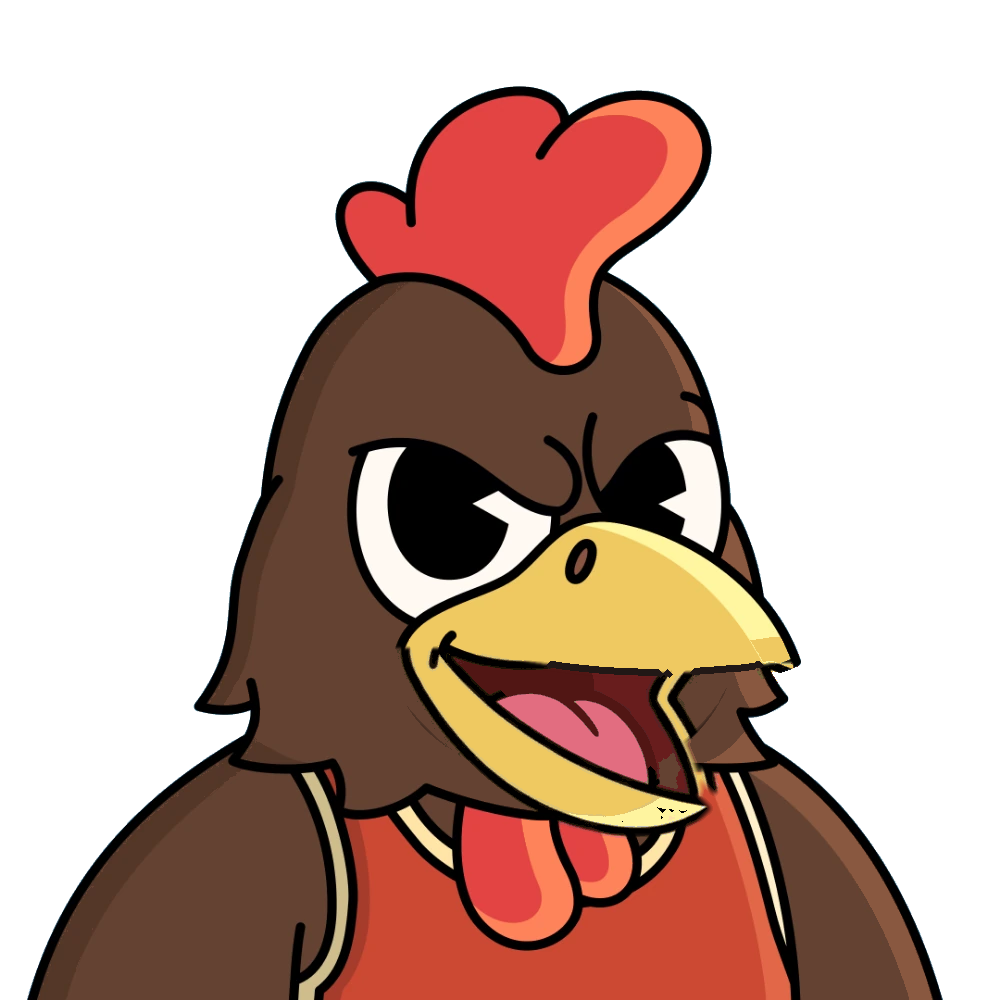
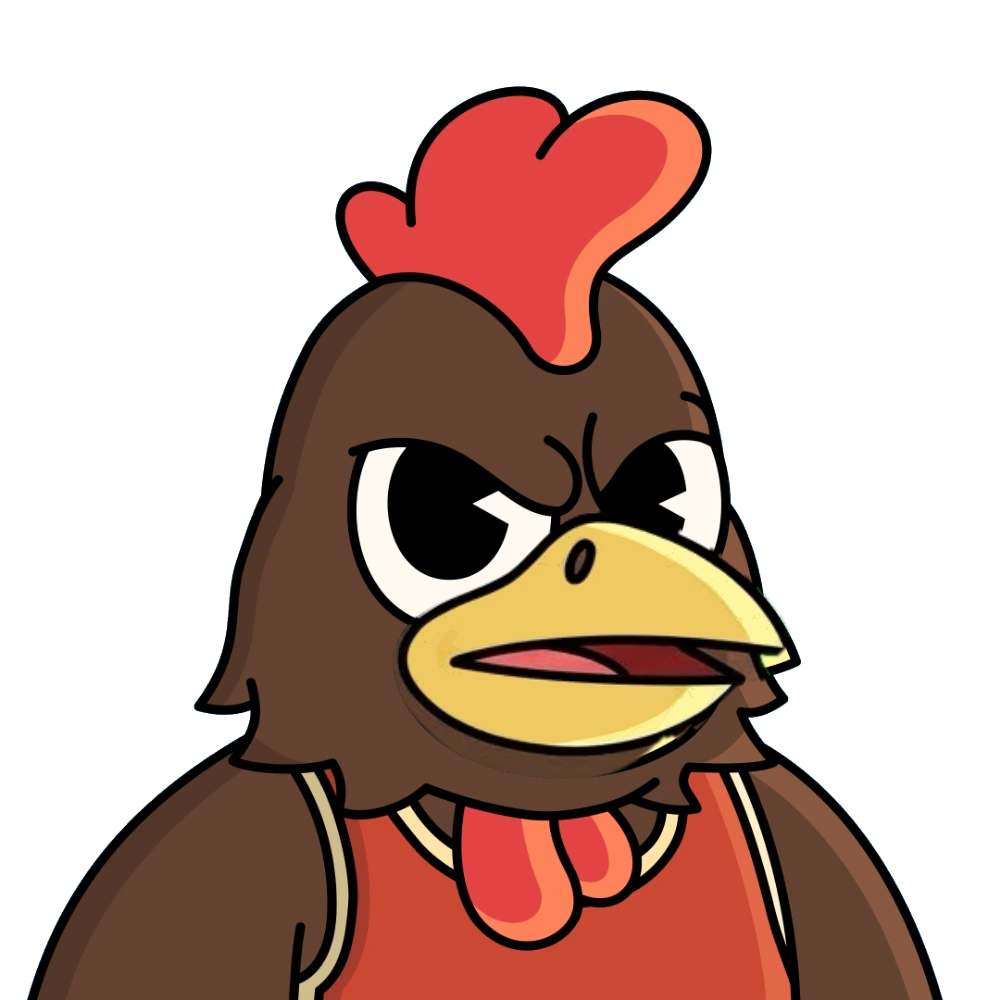
Cock kit: the whole talking set redrawn from GEAUX's sheets (shut, small open, AH, EE, OO, F/V, frown; O and L refitted), every beak lined up by its upper beak so the beak keeps one shape (tools/kit_from_panels.py BEAK/UPPER); dark geckos' chin no longer turns teal (the chin colour from the Nibble's
Claude-Session: https://claude.ai/code/session_01AAjfD4JXrwKrGtAMJHTTVa

Changed region(s): [[0.372, 0.527, 0.806, 0.837], [0.527, 0.527, 0.589, 0.589], [0.496, 0.558, 0.527, 0.589]]

diff --git a/beta/kit.js b/beta/kit.js
@@ -143,10 +143,16 @@ export function fromKit(Timg, ref, { blink = true, dbg = null, wideFace = false,
   if (donor) { const Dn = data(donor), zone = grow(Zd, 320), dm = new Uint8Array(N * N);
     let ztop = N; for (let p = 0; p < N * N; p++) if (Z[p]) { ztop = (p / N) | 0; break; }
     // (a gum bubble swells up over the snout, well above the mouth: all of it goes, GEAUX 21 Nov. The eyes stay this Nibble's own)
-    for (let p = 0; p < N * N; p++) if (((p / N) | 0) < ztop - (gum ? 260 : 10)) zone[p] = 0;   // (the eyes, a hat: this Nibble's own, never the donor's)
+    // (a tongue sticking up past the mouth's top (a gecko's tongue curled over its lip) is the mouth too: it was cut flat
+    //  along that line, its top left over every talking mouth (the nibble check, 24 Nov))
+    const zNear = grow(Zd, 40);   // (a tongue is next to the mouth; a red cap isn't)
+    for (let p = 0; p < N * N; p++) { const y = (p / N) | 0; if (y >= ztop - (gum ? 260 : 10)) continue; const i = p * 4;
+      if (zNear[p] && T[i] > 190 && T[i + 1] < 150 && T[i] - T[i + 1] > 70 && dist(T, i, Dn, i) > 50) continue; zone[p] = 0; }   // (the eyes, a hat: this Nibble's own, never the donor's)
     // (with a gum bubble, only where the blink actually changes the picture: the beaver's blink layer reaches down over its whole snout)
     if (ref.eyes) for (const e of [ref.eyes[3], ref.eyes[4]]) if (e) { const E = data(e), ez = new Uint8Array(N * N); for (let p = 0; p < N * N; p++) if (E[p * 4 + 3] > 20 && (!gum || dist(E, p * 4, R, p * 4) > 40)) ez[p] = 1;
-      const eg = grow(ez, 24); for (let p = 0; p < N * N; p++) if (eg[p]) zone[p] = 0; }
+      const tg = new Uint8Array(N * N); for (let p = 0; p < N * N; p++) { const i = p * 4; if (!ez[p] && zNear[p] && T[i] > 190 && T[i + 1] < 150 && T[i] - T[i + 1] > 70 && dist(T, i, Dn, i) > 50) tg[p] = 1; }
+      const tgG = grow(tg, 9);   // (a tongue next to the eyes, with its outline, is still the tongue)
+      const eg = grow(ez, 24); for (let p = 0; p < N * N; p++) if (eg[p] && !(tgG[p] && !ez[p])) zone[p] = 0; }
     for (let p = 0; p < N * N; p++) { if (!zone[p]) continue; const i = p * 4; if (Math.abs(T[i + 3] - Dn[i + 3]) > 60 || dist(T, i, Dn, i) > 50) dm[p] = 1; }
     // only the pieces that reach into the mouth area (the mouth itself, its drool or tongue); not eyes or anything else
     const lab = new Int32Array(N * N), q = new Int32Array(N * N), use = new Uint8Array(N * N); let id = 0;
@@ -154,7 +160,10 @@ export function fromKit(Timg, ref, { blink = true, dbg = null, wideFace = false,
       while (h < t) { const p = q[h++], x = p % N; if (Zd[p]) inZ++; for (const j of [x > 0 ? p - 1 : -1, x < N - 1 ? p + 1 : -1, p - N, p + N]) if (j >= 0 && j < N * N && dm[j] && !lab[j]) { lab[j] = id; q[t++] = j; } }
       // (mostly in the mouth area: a hood, a scarf or a cape that the donor doesn't wear is this Nibble's own, never swapped)
       if (inZ >= 20) {
-        if (inZ >= t * (gum ? 0.08 : 0.3)) for (let k = 0; k < t; k++) use[q[k]] = 1; } }
+        // (a tongue curled out over the lip is mostly outside the mouth area, but it's the mouth: it stayed over every talking
+        //  mouth, cut flat along the area's edge (the nibble check, 24 Nov))
+        let pk = 0; for (let k = 0; k < t; k++) { const i = q[k] * 4; if (zNear[q[k]] && T[i] > 190 && T[i + 1] < 150 && T[i] - T[i + 1] > 70) pk++; }   // (next to the mouth: a red cap isn't a tongue)
+        if (inZ >= t * (gum ? 0.08 : 0.3) || pk >= t * 0.4) for (let k = 0; k < t; k++) use[q[k]] = 1; } }
     // the gum bubble itself, whole: its pink (and the outline and shine inside it), joined to the mouth area
     let gm = null;
     if (gum) { const pink = new Uint8Array(N * N); for (let p = 0; p < N * N; p++) { const i = p * 4; if (T[i + 3] > 200 && T[i] > 170 && T[i] - T[i + 1] > 50 && T[i + 2] > T[i + 1] + 20) pink[p] = 1; }
@@ -163,9 +172,10 @@ export function fromKit(Timg, ref, { blink = true, dbg = null, wideFace = false,
         while (h < t) { const p = q2[h++], x = p % N; if (Zd[p]) inZ++; for (const j of [x > 0 ? p - 1 : -1, x < N - 1 ? p + 1 : -1, p - N, p + N]) if (j >= 0 && j < N * N && pink[j] && !lb[j]) { lb[j] = n2; q2[t++] = j; } }
         if (inZ >= 20 && t >= 400) for (let k = 0; k < t; k++) keep[q2[k]] = 1; }
       gm = grow(fillHoles(grow(keep, 4)), 6); }
+    // (a twin in other clothes (donor.loose): inside the mouth area only)
     const g = grow(fillHoles(use), 3); donor.box = [N, N, 0, 0];
     if (gm) for (let p = 0; p < N * N; p++) if (gm[p]) { g[p] = 1; zone[p] = 1; }
-    for (let p = 0; p < N * N; p++) if (g[p] && zone[p]) { const i = p * 4, x = p % N, y = (p / N) | 0; const b = donor.box; if (x < b[0]) b[0] = x; if (y < b[1]) b[1] = y; if (x > b[2]) b[2] = x; if (y > b[3]) b[3] = y; T[i] = Dn[i]; T[i + 1] = Dn[i + 1]; T[i + 2] = Dn[i + 2]; T[i + 3] = Dn[i + 3]; } }
+    for (let p = 0; p < N * N; p++) if (g[p] && zone[p] && (!donor.loose || Zd[p] || (gm && gm[p]))) { const i = p * 4, x = p % N, y = (p / N) | 0; const b = donor.box; if (x < b[0]) b[0] = x; if (y < b[1]) b[1] = y; if (x > b[2]) b[2] = x; if (y > b[3]) b[3] = y; T[i] = Dn[i]; T[i + 1] = Dn[i + 1]; T[i + 2] = Dn[i + 2]; T[i + 3] = Dn[i + 3]; } }
   for (let p = 0; p < N * N; p++) if (Zd[p]) ring[p] = 0;
   // and around the eyes (the blink layers): the fur there can differ from the snout's
   const EZ = new Uint8Array(N * N); let eyeRing = null;
@@ -364,6 +374,13 @@ export function fromKit(Timg, ref, { blink = true, dbg = null, wideFace = false,
     if (dbg) { dbg.chinCands = []; for (let k = 0; k < 32768; k++) if (cnt[k] > 60) dbg.chinCands.push([((k >> 10) << 3) + 4, (((k >> 5) & 31) << 3) + 4, ((k & 31) << 3) + 4, cnt[k], Math.round(rowS[k] / cnt[k] - zy)]); dbg.chinCands.sort((a, b) => b[3] - a[3]); dbg.zy = zy; }
     if (bn > 40) { let r = 0, g = 0, b = 0, n = 0; for (let p = 0; p < N * N; p++) { if (!below[p] || ((p / N) | 0) < zy) continue; const i = p * 4; if (T[i + 3] > 200 && bin(T[i], T[i + 1], T[i + 2]) === bk) { r += T[i]; g += T[i + 1]; b += T[i + 2]; n++; } } chinT = [r / n, g / n, b / n]; chinLearned = true; }
     { let jk = -1, jn = 0; for (let k = 0; k < 32768; k++) if (jawC[k] > jn) { jn = jawC[k]; jk = k; } if (jk >= 0) { lumJaw = ((jk >> 10) << 3) + (((jk >> 5) & 31) << 3) + ((jk & 31) << 3) + 12;
+      if (!chinT) { // (nothing of the reference's jaw palette to learn from: this Nibble's own light colour just under its
+        //  mouth, before the learned match of the reference's jaw colour, which on a dark gecko came out dark teal (24 Nov))
+        const c2 = new Map(); for (let p = 0; p < N * N; p++) { const y = (p / N) | 0; if (!Zd[p] || y <= zy || y > zy + 120) continue; const i = p * 4;
+          if (T[i + 3] < 200 || lum(T, i) < 300 || (T[i] > T[i + 1] * 1.3 && T[i] > T[i + 2] * 1.2) || isDrip(T[i], T[i + 1], T[i + 2]) || st0[p]) continue; const k = bin(T[i], T[i + 1], T[i + 2]); c2.set(k, (c2.get(k) || 0) + 1); }   // (a cream chin reads as 'teeth white': only reds and pinks are left out)
+        let top = 0; for (const v of c2.values()) top = Math.max(top, v); let bk2 = -1, bl2 = -1;
+        for (const [k, v] of c2) if (v > 200 && v >= top * 0.3) { const L = (k >> 10) + ((k >> 5) & 31) + (k & 31); if (L > bl2) { bl2 = L; bk2 = k; } }
+        if (bk2 >= 0) { let r = 0, g = 0, b = 0, n = 0; for (let p = 0; p < N * N; p++) { const y = (p / N) | 0; if (!Zd[p] || y <= zy || y > zy + 120) continue; const i = p * 4; if (T[i + 3] > 200 && bin(T[i], T[i + 1], T[i + 2]) === bk2) { r += T[i]; g += T[i + 1]; b += T[i + 2]; n++; } } chinT = [r / n, g / n, b / n]; } }
       if (!chinT) chinT = map(((jk >> 10) << 3) + 4, (((jk >> 5) & 31) << 3) + 4, ((jk & 31) << 3) + 4); } } }   // too little chin showing: the learned match of the reference's jaw colour
   if (chinLearned) chinOwn = { c:chinT, P:jawP, lum:lumJaw };
   if (dbg) Object.assign(dbg, { chinT, lumJaw, jawN:jawC.reduce((a, v) => a + (v ? 1 : 0), 0) });
@@ -403,8 +420,9 @@ export function fromKit(Timg, ref, { blink = true, dbg = null, wideFace = false,
       if (!isMouthC(D[i], D[i + 1], D[i + 2]) && lum(D, i) >= 200) other[p] = 1; }   // the mouth is dark, red, pink or white teeth; clothes are anything else
     const wide = grow(shrink(other, 4), 4), subst0 = new Map();
     for (let p = 0; p < N * N; p++) if (other[p] && wide[p] && R[p * 4 + 3] > 200 && isSkin(R, p * 4)) { const i = p * 4;
+      if (dist(D, i, R, i) <= 30 && Math.abs(D[i + 3] - R[i + 3]) <= 60 && T[i + 3] > 200) continue;   // (unchanged by this mouth: this Nibble's own, never a guessed chin colour (a dark gecko's cream jaw came out dark teal, 24 Nov))
       // the reference's clothes showing: filled from this Nibble's own; any other colour (a lighter lip Gemini drew) is its chin
-      if (chinT && !inPal(clothP, D[i], D[i + 1], D[i + 2]) && !map(D[i], D[i + 1], D[i + 2])) { const sc = Math.min(1.1, lum(D, i) / lumJaw); subst0.set(p, chinT.map(v => Math.max(0, Math.min(255, Math.round(v * sc))))); }
+      if (chinT && !inPal(clothP, D[i], D[i + 1], D[i + 2]) && !map(D[i], D[i + 1], D[i + 2])) { const sc = Math.min(1.0, lum(D, i) / lumJaw); subst0.set(p, chinT.map(v => Math.max(0, Math.min(255, Math.round(v * sc))))); }
       else hole[p] = 1; }
     // where this Nibble shows its own clothes (or their outlines) in its own picture, they're simply there: kept, not
     // guessed from around (the guess left scraps of shirt and skin under the chin, GEAUX's sitcom wolves)
@@ -444,14 +462,14 @@ export function fromKit(Timg, ref, { blink = true, dbg = null, wideFace = false,
       // skin: drawn in this Nibble's matching colour; a skin colour with no match here (a chin its hoodie hides) is filled from its own picture
       if (mouthy || isSkin(D, i)) { if (mouthy) continue; const mm = lum(D, i) >= 75 ? map(D[i], D[i + 1], D[i + 2]) : 1, m = mapped(D, i);
         const onJaw = onJawR(i);
-        if (chinT && (!mm || (onJaw && !inPal(faceP, m[0], m[1], m[2])))) { const sc = Math.min(1.1, lum(D, i) / lumJaw); subst.set(p, chinT.map(v => Math.max(0, Math.min(255, Math.round(v * sc))))); continue; }
+        if (chinT && (!mm || (onJaw && !inPal(faceP, m[0], m[1], m[2])))) { const sc = Math.min(1.0, lum(D, i) / lumJaw); subst.set(p, chinT.map(v => Math.max(0, Math.min(255, Math.round(v * sc))))); continue; }
         if (!mm || !inPal(ownP, m[0], m[1], m[2])) foreign[p] = 1; continue; }
       if (sameDR(i)) continue;
       // another colour of the reference's body (a lighter lip) that this Nibble has no match for: its own chin colour
-      if (chinT && inPal(refP, D[i], D[i + 1], D[i + 2]) && !inPal(clothP, D[i], D[i + 1], D[i + 2]) && !map(D[i], D[i + 1], D[i + 2])) { const sc = Math.min(1.1, lum(D, i) / lumJaw); subst.set(p, chinT.map(v => Math.max(0, Math.min(255, Math.round(v * sc))))); continue; }
+      if (chinT && inPal(refP, D[i], D[i + 1], D[i + 2]) && !inPal(clothP, D[i], D[i + 1], D[i + 2]) && !map(D[i], D[i + 1], D[i + 2])) { const sc = Math.min(1.0, lum(D, i) / lumJaw); subst.set(p, chinT.map(v => Math.max(0, Math.min(255, Math.round(v * sc))))); continue; }
       if (R[i + 3] < 60 && T[i + 3] < 200) continue;   // the mouth drawn past both outlines (a pucker's chin): drawn, not left see-through
       if (!(R[i + 3] > 200 && isSkin(R, i))) { keepT[p] = 1; continue; }
-      if (chinT && !inPal(clothP, D[i], D[i + 1], D[i + 2]) && !map(D[i], D[i + 1], D[i + 2])) { const sc = Math.min(1.1, lum(D, i) / lumJaw); subst.set(p, chinT.map(v => Math.max(0, Math.min(255, Math.round(v * sc))))); continue; }   // over the reference's skin: a lip shade with no match here
+      if (chinT && !inPal(clothP, D[i], D[i + 1], D[i + 2]) && !map(D[i], D[i + 1], D[i + 2])) { const sc = Math.min(1.0, lum(D, i) / lumJaw); subst.set(p, chinT.map(v => Math.max(0, Math.min(255, Math.round(v * sc))))); continue; }   // over the reference's skin: a lip shade with no match here
       if (inPal(clothP, D[i], D[i + 1], D[i + 2]) || !inPal(ownP, D[i], D[i + 1], D[i + 2])) foreign[p] = 1; }
     { const f = blobs(foreign, 12); for (let p = 0; p < N * N; p++) if (f[p]) { const i = p * 4;
       // a shade the kit drew over the reference's own skin (a darker underside, a lighter shine): this Nibble's skin there,
@@ -462,7 +480,7 @@ export function fromKit(Timg, ref, { blink = true, dbg = null, wideFace = false,
     if (chinT) for (let p = 0; p < N * N; p++) { if (!hole[p] || stick[p]) continue; const i = p * 4;
       if (T[i + 3] > 200 && !(D[i + 3] > 150 && lum(D, i) < 100) && (tCloth[p] || (lum(T, i) < 100 && tClothNear[p]))) { hole[p] = 0; keepT[p] = 1; continue; }   // (this Nibble's own clothes there: kept, not a chin-coloured arc)
       if ((onJawR(i) || (R[i + 3] > 200 && isSkin(R, i) && ((p / N) | 0) > zy)) && D[i + 3] > 200 && lum(D, i) >= 300 && !inPal(botP, D[i], D[i + 1], D[i + 2])) {
-        hole[p] = 0; const sc = Math.min(1.1, lum(D, i) / lumJaw); subst.set(p, chinT.map(v => Math.max(0, Math.min(255, Math.round(v * sc))))); } }
+        hole[p] = 0; const sc = Math.min(1.0, lum(D, i) / lumJaw); subst.set(p, chinT.map(v => Math.max(0, Math.min(255, Math.round(v * sc))))); } }
     const fill = inpaint(T, grow(hole, 1), useG);
     // (a twin's own mouth line: each of its pixels the colour of the nearest light pixel of the twin's face beside it, so the
     //  face's own shading carries on through; a fill from further around left a flat band with straight edges)

diff --git a/beta/index.html b/beta/index.html
@@ -1027,8 +1027,16 @@ async function donorFor(id, a, B) {
     if (/mask|goggle/i.test(String(val(row, 'Accessory') || '')) && val(row, 'Accessory') !== a.Accessory) return;   // (a twin in a mask or goggles that reach the cheeks: its mask was pasted on this Nibble's cheek (the nibble check, 23 Nov: an opera mask on a blue ghost))
     const mo = val(row, 'Mouth'); if (!want.includes(mo)) return;
     const sc = (mo === 'Smile' ? 2 : 1) + (val(row, 'Accessory') === a.Accessory ? 4 : 0) + (val(row, 'Eyes') === a.Eyes ? 1 : 0); if (sc > bs) { bs = sc; best = did; } });
+  // (no twin in the same outfit (about 90 Nibbles): one of the same kind and skin in another outfit, its face only (the kit
+  //  engine takes nothing of it outside the mouth area). With none, the Nibble's own grin or open mouth stayed in front of
+  //  every talking mouth: the nibble check, 24 Nov)
+  let loose = false;
+  if (!best) m.t.forEach((row, k) => { const did = k + 1; if (did === id || val(row, 'Character') !== a.Character || val(row, 'Skin') !== a.Skin) return;
+    if (/mask|goggle/i.test(String(val(row, 'Accessory') || '')) && val(row, 'Accessory') !== a.Accessory) return;
+    const mo = val(row, 'Mouth'); if (!want.includes(mo)) return;
+    const sc = (mo === 'Smile' ? 2 : 1) + (val(row, 'Accessory') === a.Accessory ? 4 : 0) + (val(row, 'Eyes') === a.Eyes ? 1 : 0); if (sc > bs) { bs = sc; best = did; loose = true; } });
   if (!best) return null;
-  try { const im = new Image(); im.crossOrigin = 'anonymous'; im.src = nibblePic(best); await im.decode(); return B.cutOriginal(im, KIT_GAPS[a.Character]).canvas; } catch (e) { return null; }
+  try { const im = new Image(); im.crossOrigin = 'anonymous'; im.src = nibblePic(best); await im.decode(); const c = B.cutOriginal(im, KIT_GAPS[a.Character]).canvas; c.loose = loose; return c; } catch (e) { return null; }
 }
 // things in front of the mouth, kept whole on top of every talking mouth (kit.js)
 const FRONT_MOUTH = /mustache|straw|match/i;   // (dark magic isn't: its still wisps are replaced by the moving ones)
@@ -1076,7 +1084,7 @@ async function kitPrepare(id) {
       const exp = await B.exportFiles(res, cut.canvas), files = {};
       const drop = () => { for (const c of [cut.canvas, ...(res.frames || []), ...(res.eyes || [])]) if (c && c.getContext) c.width = c.height = 0; };
       for (const k in exp.files) files[k] = URL.createObjectURL(exp.files[k]);
-      NIBBLES[id] = { bg:cut.bg, fullFace:true, files, layout:exp.layout, jiggle:exp.layout.jig, kit:ref, twin:!!donor };
+      NIBBLES[id] = { bg:cut.bg, fullFace:true, files, layout:exp.layout, jiggle:exp.layout.jig, kit:ref, twin:!!donor, twinLoose:!!(donor && donor.loose) };
       // (and with no twin on hand: the talking mouths are made without its own big mouth anyway (painted over as the
       // reference's face), so its resting face is the shut one too, or its drool flashed between words: GEAUX's Office clip)
       if (!rig && (donor || !PLAIN_MOUTH.includes(a.Mouth))) NIBBLES[id].twinRest = a.Mouth === 'Frown' ? 9 : 1;

diff --git a/tools/kit_from_panels.py b/tools/kit_from_panels.py
@@ -20,7 +20,9 @@ while x < len(col):
         while x < len(col) and col[x]: x += 1
         if x - x0 > 100: runs.append((x0, x))
     x += 1
-assert len(runs) == len(ks), f'{len(runs)} panels found, {len(ks)} frames given'
+if len(runs) != len(ks):   # (panels whose bodies touch at the bottom: the sheet in equal columns instead)
+    W0 = S.shape[1] // len(ks); runs = [(i * W0, (i + 1) * W0) for i in range(len(ks))]
+    print('panels touch: split into', len(ks), 'equal columns')
 bm = (B[..., 3] > 128).astype(np.float32)
 def place(P, a, s, dx, dy):
     M = np.float32([[s, 0, dx], [0, s, dy]])
@@ -35,6 +37,12 @@ zone0 = ndimage.binary_dilation(ndimage.binary_opening(zone0, iterations=2), ite
 # (the fine fit weighs the ink round the mouth: the face there has to line up, not the whole picture (a cock's beak, drawn a
 #  little smaller, came out with two upper edges))
 near0 = ndimage.binary_dilation(zone0, iterations=60) & ~zone0 | zone0
+if os.environ.get('BEAK'):   # (a beak is fitted by the beak: its size has to match the Nibble's own between words)
+    _bk = (B[..., 0] > 180) & (B[..., 1] > 140) & (B[..., 2] < 150); _lb, _nb = ndimage.label(_bk)
+    _b = _lb == 1 + int(np.argmax(ndimage.sum(np.ones_like(_lb), _lb, range(1, _nb + 1))))
+    if os.environ.get('UPPER'):   # (an open beak: fitted by its upper half, which doesn't move)
+        _ys = np.where(_b.any(1))[0]; _b[_ys.min() + int((_ys.max() - _ys.min()) * 0.5):] = False
+    near0 = ndimage.binary_dilation(_b, iterations=25)
 for (x0, x1), k in zip(runs, ks):
     P = S[:, x0:x1].copy(); pa = (~green[:, x0:x1]).astype(np.float32)
     pa = ndimage.binary_opening(pa > 0, iterations=2).astype(np.float32)
@@ -60,9 +68,9 @@ for (x0, x1), k in zip(runs, ks):
     bl = (B[..., :3].sum(-1) < 200) & (B[..., 3] > 200)
     bl = ndimage.gaussian_filter((bl & near0).astype(np.float32), 2)
     fine = (-1, s, dx, dy)
-    for ss in (np.arange(s * 0.96, s * 1.041, 0.005) if not os.environ.get("QUICK") else [s]):
-        for ddx in (range(-16, 17, 2) if not os.environ.get("QUICK") else [0]):
-            for ddy in (range(-16, 17, 2) if not os.environ.get("QUICK") else [0]):
+    for ss in (np.arange(s * 0.92, s * 1.081, 0.01) if os.environ.get("BEAK") else np.arange(s * 0.96, s * 1.041, 0.005) if not os.environ.get("QUICK") else [s]):
+        for ddx in (range(-24, 25, 4) if os.environ.get("BEAK") else range(-16, 17, 2) if not os.environ.get("QUICK") else [0]):
+            for ddy in (range(-24, 25, 4) if os.environ.get("BEAK") else range(-16, 17, 2) if not os.environ.get("QUICK") else [0]):
                 Pw, aw = place(P, pa, ss, dx + ddx, dy + ddy)
                 il = ndimage.gaussian_filter(((Pw.sum(-1) < 200) & (aw > 0.5) & near0).astype(np.float32), 2)
                 sc = (il * bl).sum() / np.sqrt((il * il).sum() * (bl * bl).sum() + 1e-6)
@@ -71,14 +79,19 @@ for (x0, x1), k in zip(runs, ks):
     Pw, aw = place(P, pa, s, dx, dy)
     print(ref, k, 'outline fit %.3f, ink fit %.3f, scale %.3f, shift %d,%d' % (v, sc, s, dx, dy))
     zone = zone0 & (aw > 0.5) & (B[..., 3] > 128)
-    # (UP=<px>: the area reaches that much further up, for a mouth whose upper part (a cock's whole beak) the panel draws
-    #  its own way: cut through, the two beaks showed as two upper edges)
-    import os
-    if os.environ.get('UP'): u = int(os.environ['UP']); zs = np.zeros_like(zone); zs[:-u] = zone[u:]; zone = (zone | (ndimage.binary_dilation(zone, iterations=8) & np.maximum.accumulate(zs[::-1], 0)[::-1] & False) | np.any([np.roll(zone, -d, 0) for d in range(0, u, 4)], 0)) & (aw > 0.5) & (B[..., 3] > 128)
-    # (never the eyes: they're the blink layers' and this Nibble's own)
-    for e in range(1, 5):
-        fe = f'faces/{ref}/e{e}.webp'
-        if os.path.exists(fe): zone &= ~ndimage.binary_dilation(np.array(Image.open(fe).convert('RGBA'))[..., 3] > 20, iterations=8)
+    # (BEAK=1, for a beak: the area is the beak itself, the kit picture's and the panel's, with what's inside the panel's
+    #  open beak; nothing else. Cut through the beak, the two beaks showed as two edges; and the whole area reached the
+    #  wattle and comb, which the panel draws its own way)
+    if os.environ.get('BEAK'):
+        beak = lambda A: (A[..., 0] > 180) & (A[..., 1] > 140) & (A[..., 2] < 150)
+        lb, nb = ndimage.label(beak(B)); big = 1 + int(np.argmax(ndimage.sum(np.ones_like(lb), lb, range(1, nb + 1))))
+        ys0, xs0 = np.where(lb == big); near = np.zeros((N, N), bool); near[max(0, ys0.min() - 60):ys0.max() + 60, max(0, xs0.min() - 60):xs0.max() + 60] = True
+        pb = beak(Pw) & (aw > 0.5) & near; lp, npb = ndimage.label(pb); touch = ndimage.binary_dilation(lb == big, iterations=10)
+        pb = np.isin(lp, [i for i in range(1, npb + 1) if (touch & (lp == i)).any() and (lp == i).sum() > 2000])   # (the beak only: a comb, a strap is beak-coloured too)
+        bb = (lb == big) | pb
+        ys0, xs0 = np.where(bb); box = np.zeros((N, N), bool); box[ys0.min():ys0.max() + 1, xs0.min():xs0.max() + 1] = True
+        inside = box & ndimage.binary_fill_holes(ndimage.binary_dilation(beak(Pw) & (aw > 0.5), iterations=3))
+        zone = ndimage.binary_dilation(bb | inside, iterations=13) & (aw > 0.5) & (B[..., 3] > 128)
     soft = ndimage.gaussian_filter(zone.astype(np.float32), 1.5)[..., None]
     out = B.copy(); new = np.dstack([Pw, np.full((N, N), 255, np.float32)])
     out = B * (1 - soft) + new * soft

diff --git a/tools/test/teeth_check.py b/tools/test/teeth_check.py
@@ -11,7 +11,7 @@ KITS = ['1680', '1992', '310', '67', '6965', '757', '929', 'k929b', 'k2757', 'k5
 BEAVER = {'929', 'k929b'}
 # (mouths redrawn from a new sheet since: their teeth sit somewhere else, so the first-made frame says nothing about them;
 #  looked at by eye when they went in, 24 Nov)
-REDRAWN = {('1680', 1), ('1680', 7), ('67', 7), ('67', 9), ('310', 5), ('310', 8), ('6965', 2), ('6965', 8), ('1992', 2)}
+REDRAWN = {('310', 1), ('310', 2), ('310', 3), ('310', 4), ('310', 6), ('310', 7), ('310', 9), ('1680', 1), ('1680', 7), ('67', 7), ('67', 9), ('310', 5), ('310', 8), ('6965', 2), ('6965', 8), ('1992', 2)}
 white = lambda a: (a[..., 3] > 200) & (a[..., :3].min(-1) >= 195) & (a[..., :3].max(-1) - a[..., :3].min(-1) <= 50)
 bad = 0
 for ref in KITS:
